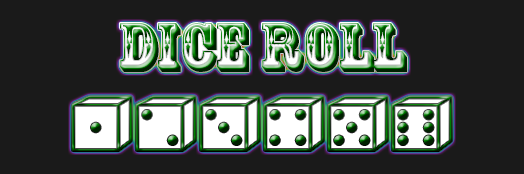
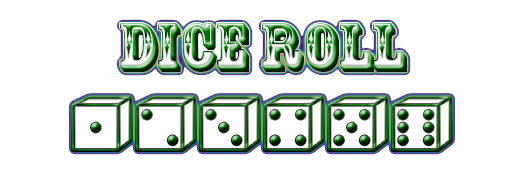
design and image update,made a bit better with IE

diff --git a/p3/dice.css b/p3/dice.css
@@ -9,7 +9,7 @@ IMG[alt="Dice Roll"] {
 	height: 680px;
 	border: 4px solid orange;
 	border-style: ridge;
-	background-image: url("green.png");
+	background-image: url("green.jpg");
 	display: block;
 	margin-left: auto;
 	margin-right: auto;
@@ -18,7 +18,7 @@ IMG[alt="Dice Roll"] {
 }
 
 #board {
-	margin-top: -15px;
+	margin-top: -14px;
 }
 
 #bg {
@@ -27,6 +27,7 @@ IMG[alt="Dice Roll"] {
 	font-size: 11px;
 	font-weight: bold;
 	text-shadow: 1px 1px black;
+	filter: Shadow(Color=#1a1a1a, Direction=120, Strength=1);
 	margin-top: -18px;
 	padding-right: 2px;
 }
@@ -63,6 +64,7 @@ IMG[alt="Dice Roll"] {
 	font-size: 18px;
 	font-weight: bold;
 	text-shadow: 1px 1px black;
+	filter: Shadow(Color=#646464, Direction=120, Strength=2);
 }
 
 .num {
@@ -74,6 +76,7 @@ IMG[alt="Dice Roll"] {
 	font-size: 18px;
 	font-weight: bold;
 	text-shadow: 1px 1px #646464;
+	filter: Shadow(Color=#646464, Direction=120, Strength=2);
 }
 
 #total_num {
@@ -82,4 +85,8 @@ IMG[alt="Dice Roll"] {
 	font-weight: bold;
 	text-shadow: 1px 1px black;
 	padding-top: 5px;
+}
+
+span[class*="die"] {
+	padding-right: 3px;
 }

diff --git a/main.css b/main.css
@@ -29,7 +29,7 @@ a:active {
 
 /* Body attributes */
 body {
-	background: #1a1a1a;
[1 lines of base64/hex data omitted]
 	color: #fff;
 	font-size: 14px;
 	font-family: sans-serif;
@@ -56,6 +56,7 @@ body {
 	font-size: 16px;
 	font-family: "Lucida Console";
 	text-shadow: 2px -1px 2px rgba(0,0,0,0.8);
+	filter: Shadow(Color=#000000, Direction=25, Strength=2);
 }
 
 #home a {
@@ -72,7 +73,7 @@ body {
 	position: static;
 	float: left;
 	margin-top: 30px;
-	margin-left: -76px;
+	margin-left: -78px;
 	text-align: center;
 	font-size: 14px;
 	font-weight: bold;
@@ -91,7 +92,7 @@ body {
 
 #nav a {
 	display: block;
-	width: 74px;
+	width: 76px;
 	height: 17px;
 	color: orange;
 	border: 2px solid white;
@@ -107,6 +108,7 @@ body {
 	margin: 15px;
 	font-weight: bold;
 	text-shadow: 1px 1px #646464;
+	filter: Shadow(Color=#646464, Direction=155, Strength=1);
 }
 
 .content {

diff --git a/p3/dice.js b/p3/dice.js
@@ -1,8 +1,8 @@
 $(document).ready(function() {
 
-	$('#red').click(function() {$("#dice_roll").css("background-image", "url('red.png')");});
-	$('#green').click(function() {$("#dice_roll").css("background-image", "url('green.png')");});
-	$('#blue').click(function() {$("#dice_roll").css("background-image", "url('blue.png')");});
+	$('#red').click(function() {$("#dice_roll").css("background-image", "url('red.jpg')");});
+	$('#green').click(function() {$("#dice_roll").css("background-image", "url('green.jpg')");});
+	$('#blue').click(function() {$("#dice_roll").css("background-image", "url('blue.jpg')");});
 	
 	$("input:button[name=roll]").click(function dice_roll() {
 

diff --git a/core/libraries/Utils.php b/core/libraries/Utils.php
@@ -315,10 +315,10 @@ class Utils {
             if(strstr($file,".css")) {
             
             	if(strstr($file,"print_")) {
-            		$contents .= '<link rel="stylesheet" type="text/css" href="'.$file.'" media="print">';
+            		$contents .= '<link rel="stylesheet" type="text/css" href="'.$file.'" media="print"/>';
             	}
             	else {
-	                $contents .= '<link rel="stylesheet" type="text/css" href="'.$file.'">';
+	                $contents .= '<link rel="stylesheet" type="text/css" href="'.$file.'"/>';
 	            }
             }
             else {

diff --git a/core/vendors/simpletest/test/detached_test.php b/core/vendors/simpletest/test/detached_test.php
@@ -1,4 +1,5 @@
 <?php
+/*
 // $Id: detached_test.php 1884 2009-07-01 16:30:40Z lastcraft $
 require_once('../detached.php');
 require_once('../reporter.php');
@@ -12,4 +13,5 @@ if (SimpleReporter::inCli()) {
     exit ($test->run(new TextReporter()) ? 0 : 1);
 }
 $test->run(new HtmlReporter());
+*/
 ?>
